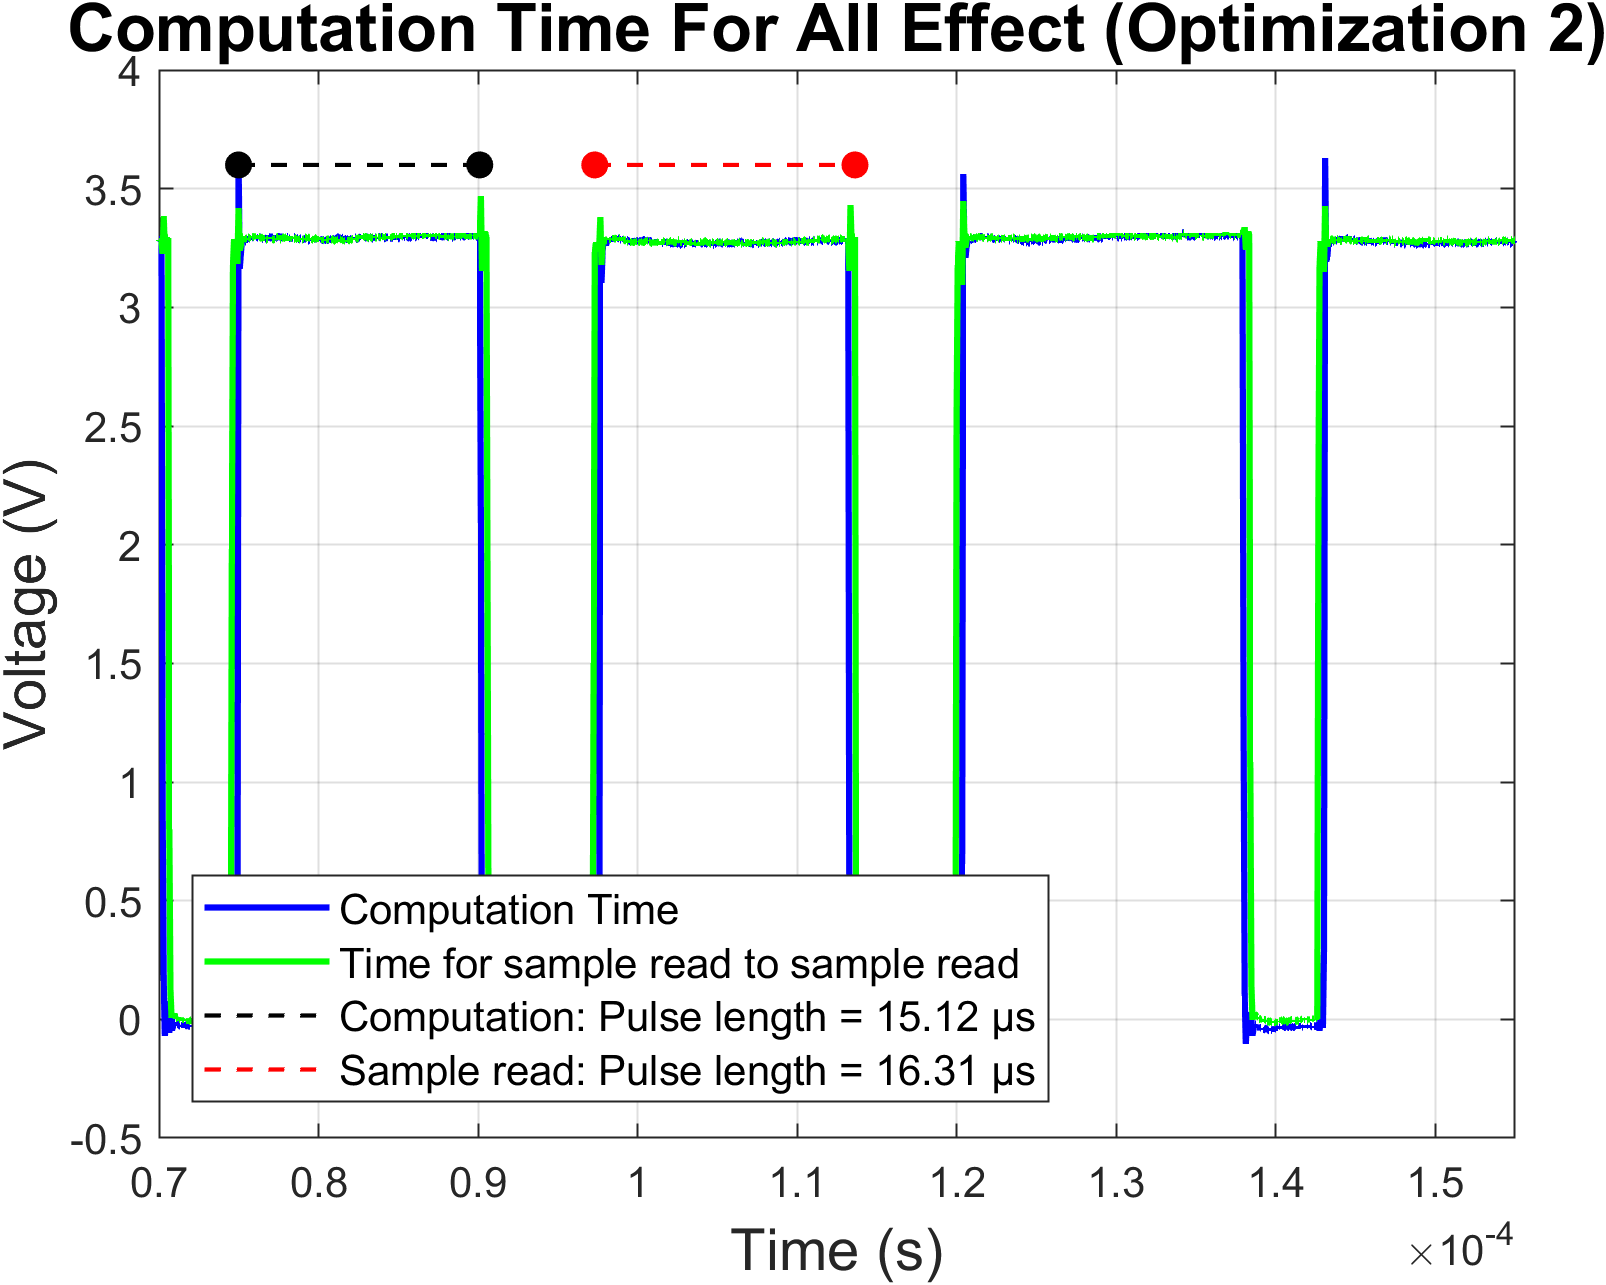
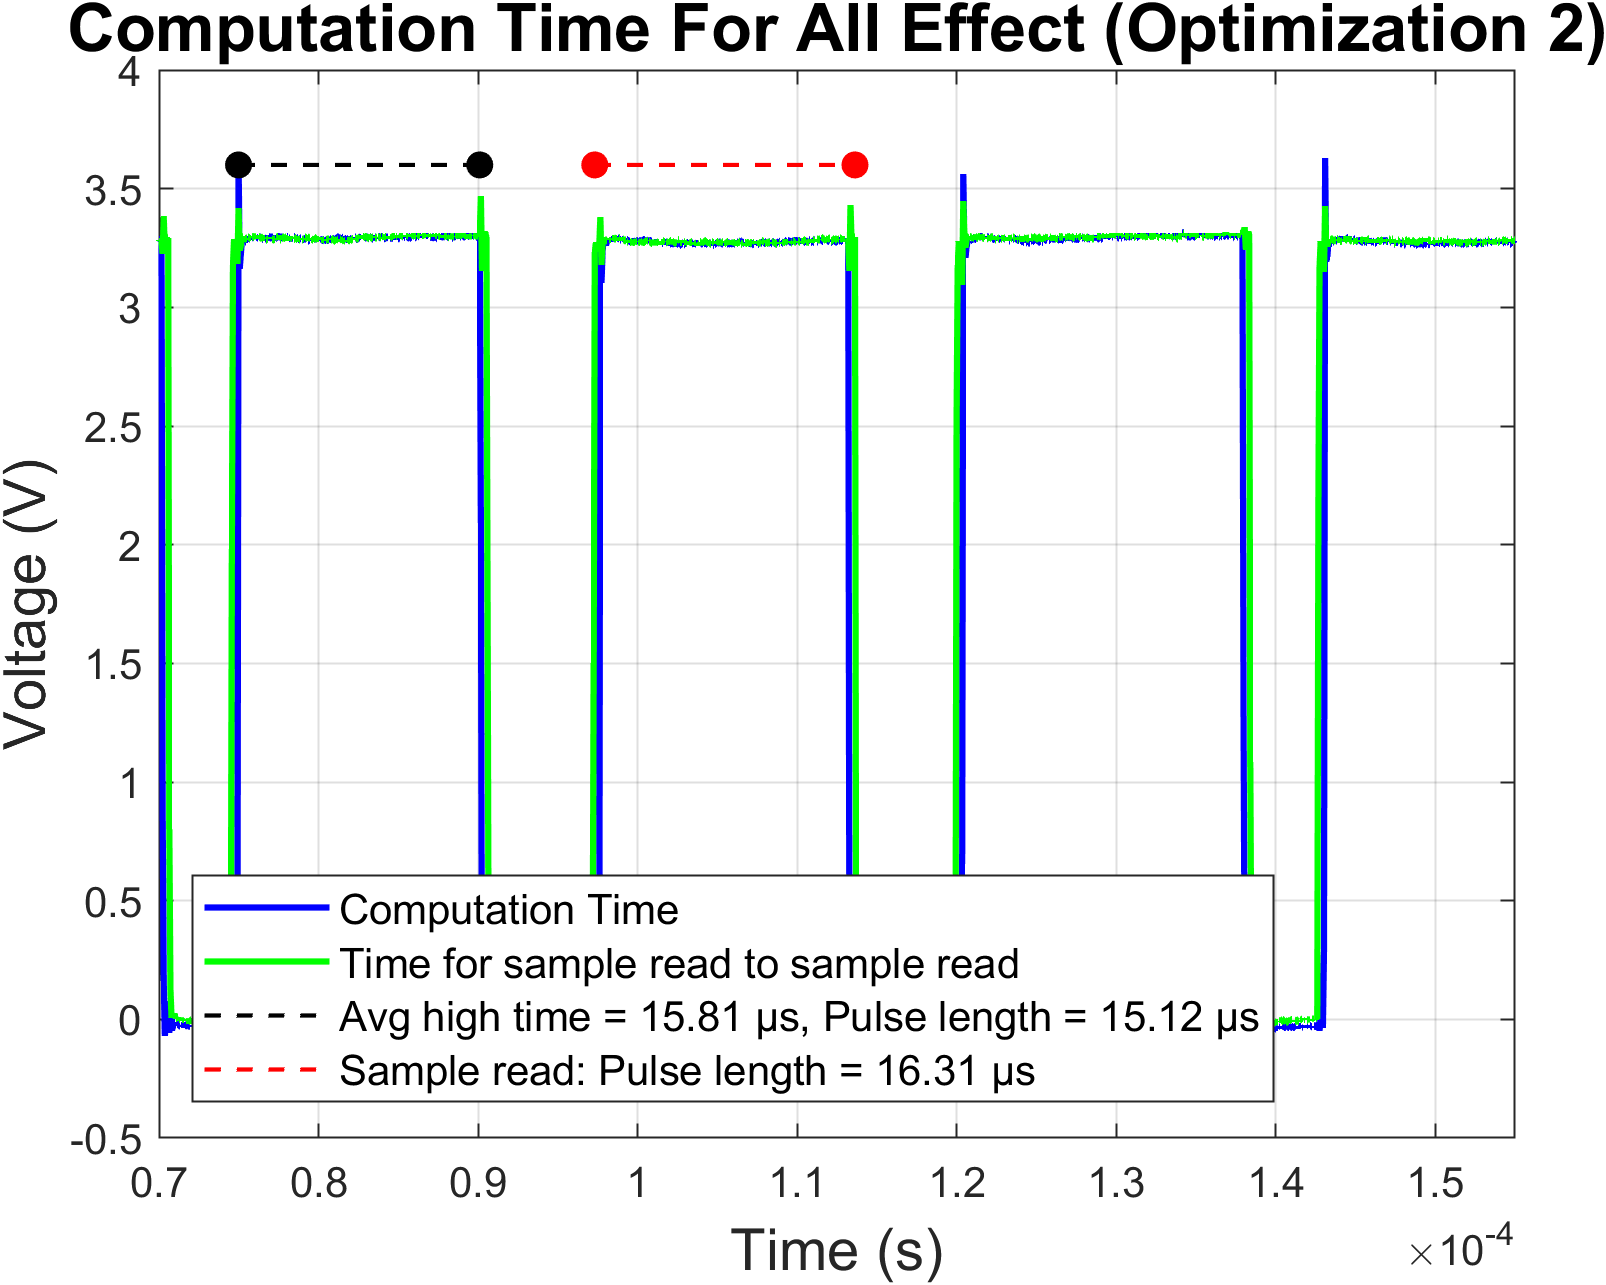
adfa

Changed region(s): [[0.1868, 0.7782, 0.6538, 0.8093], [0.6849, 0.6848, 0.8095, 0.8093]]

diff --git a/gitfigures/ImplementationTest/sampling_test.m b/gitfigures/ImplementationTest/sampling_test.m
@@ -81,11 +81,11 @@ legend([h1, h2,hPulse1, hPulse2],'Computation Time', 'Time for sample read to sa
 xlim([7e-5 15.5e-5]);
 xlabel('Time (s)', 'FontSize', 14);
 ylabel('Voltage (V)', 'FontSize', 14);
-title('Computation Time For All Effect', 'FontSize', 16);
+title('Computation Time For All Effect (Optimization 2)', 'FontSize', 16);
 grid on;
 
 saveFolder = fullfile(pwd,'..','..','gitfigures/ImplementationTest/');
-filePath = fullfile(saveFolder, sprintf('%s.png','ComputationTime_ALLFx'));
+filePath = fullfile(saveFolder, sprintf('%s.png','ComputationTime_O2ALLFx'));
 exportgraphics(figH, filePath, 'Resolution', 300);
 %filePath = fullfile(saveFolder, sprintf('%s.png','ComputationTime_noFx'));
 %exportgraphics(figJ, filePath, 'Resolution', 300);
